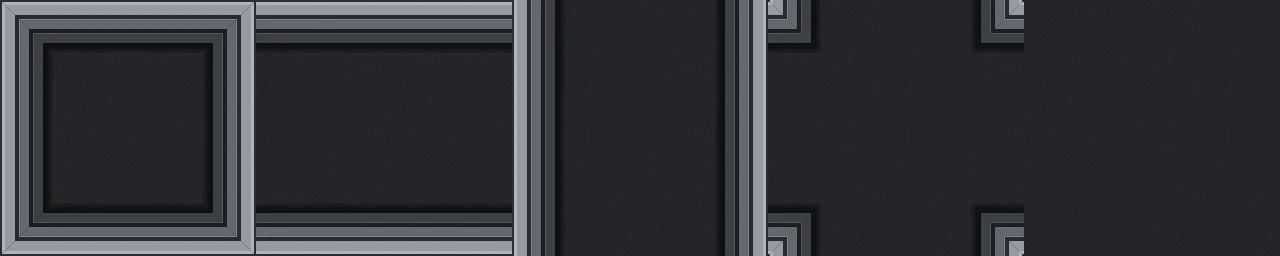
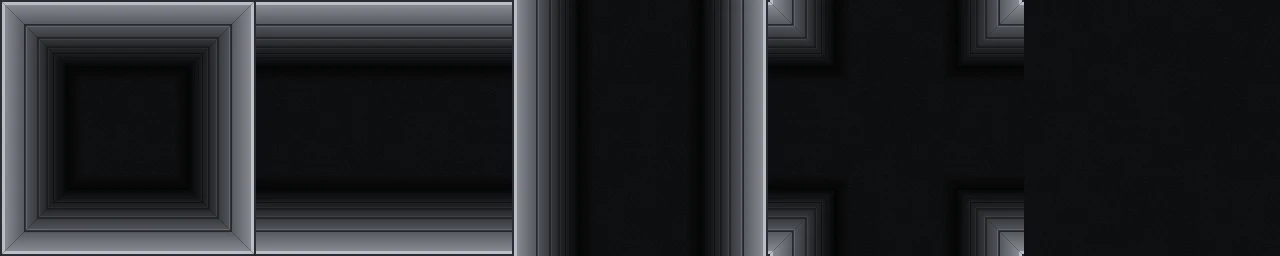
Improvements

diff --git a/docs/sprites.md b/docs/sprites.md
@@ -69,7 +69,7 @@ Quarters from different strip tiles end up side by side, so:
 
 Outside the chamber counts as open, so walls along the chamber's edge are bevelled on their outer side too, and the chamber reads as a raised block with a finished border.
 
-In the ditch strip, read "wall" as "open ditch" and "floor" as anything else. It shows the pit's inner sides, the same depth everywhere. A bridged ditch is drawn on its own (`ditch_bridged`) and ends the pit.
+In the ditch strip, read "wall" as "open ditch" and "floor" as anything else. It shows the pit's inner sides, the same depth everywhere: 82 px wide, fading from the lit rim to near black, lined with seams that crowd closer together as they go down, so the pit reads as a deep shaft. A bridged ditch is drawn on its own (`ditch_bridged`) and ends the pit.
 
 ## The set
 
